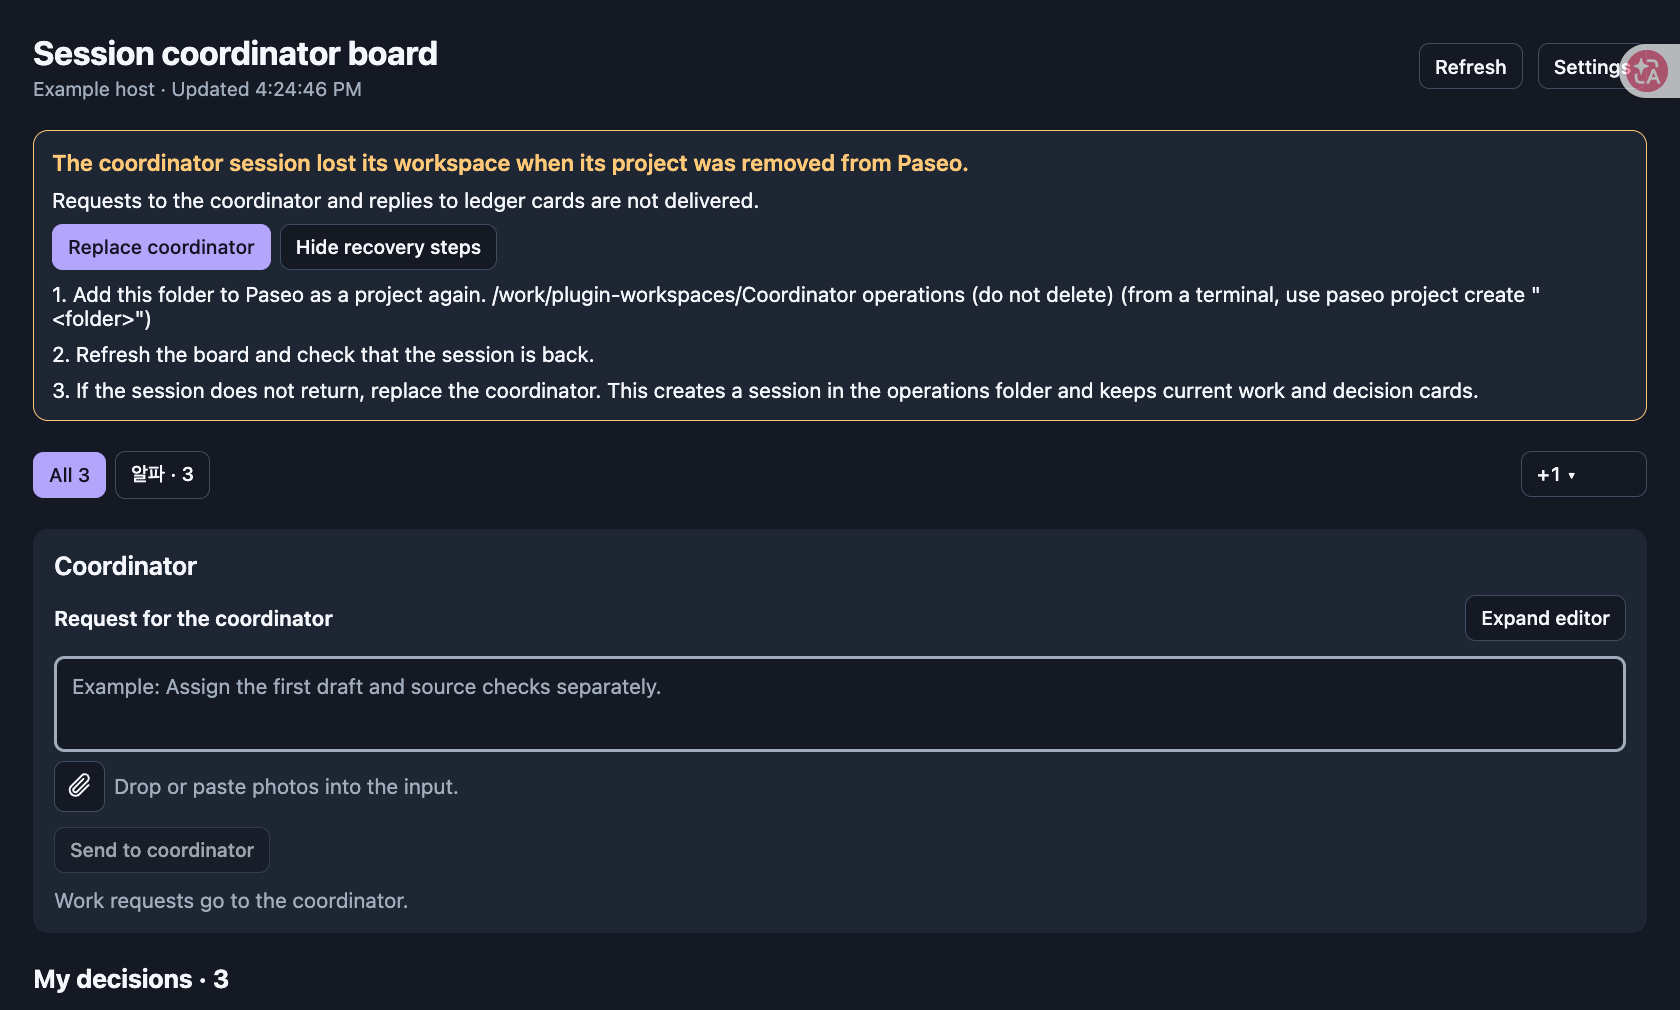
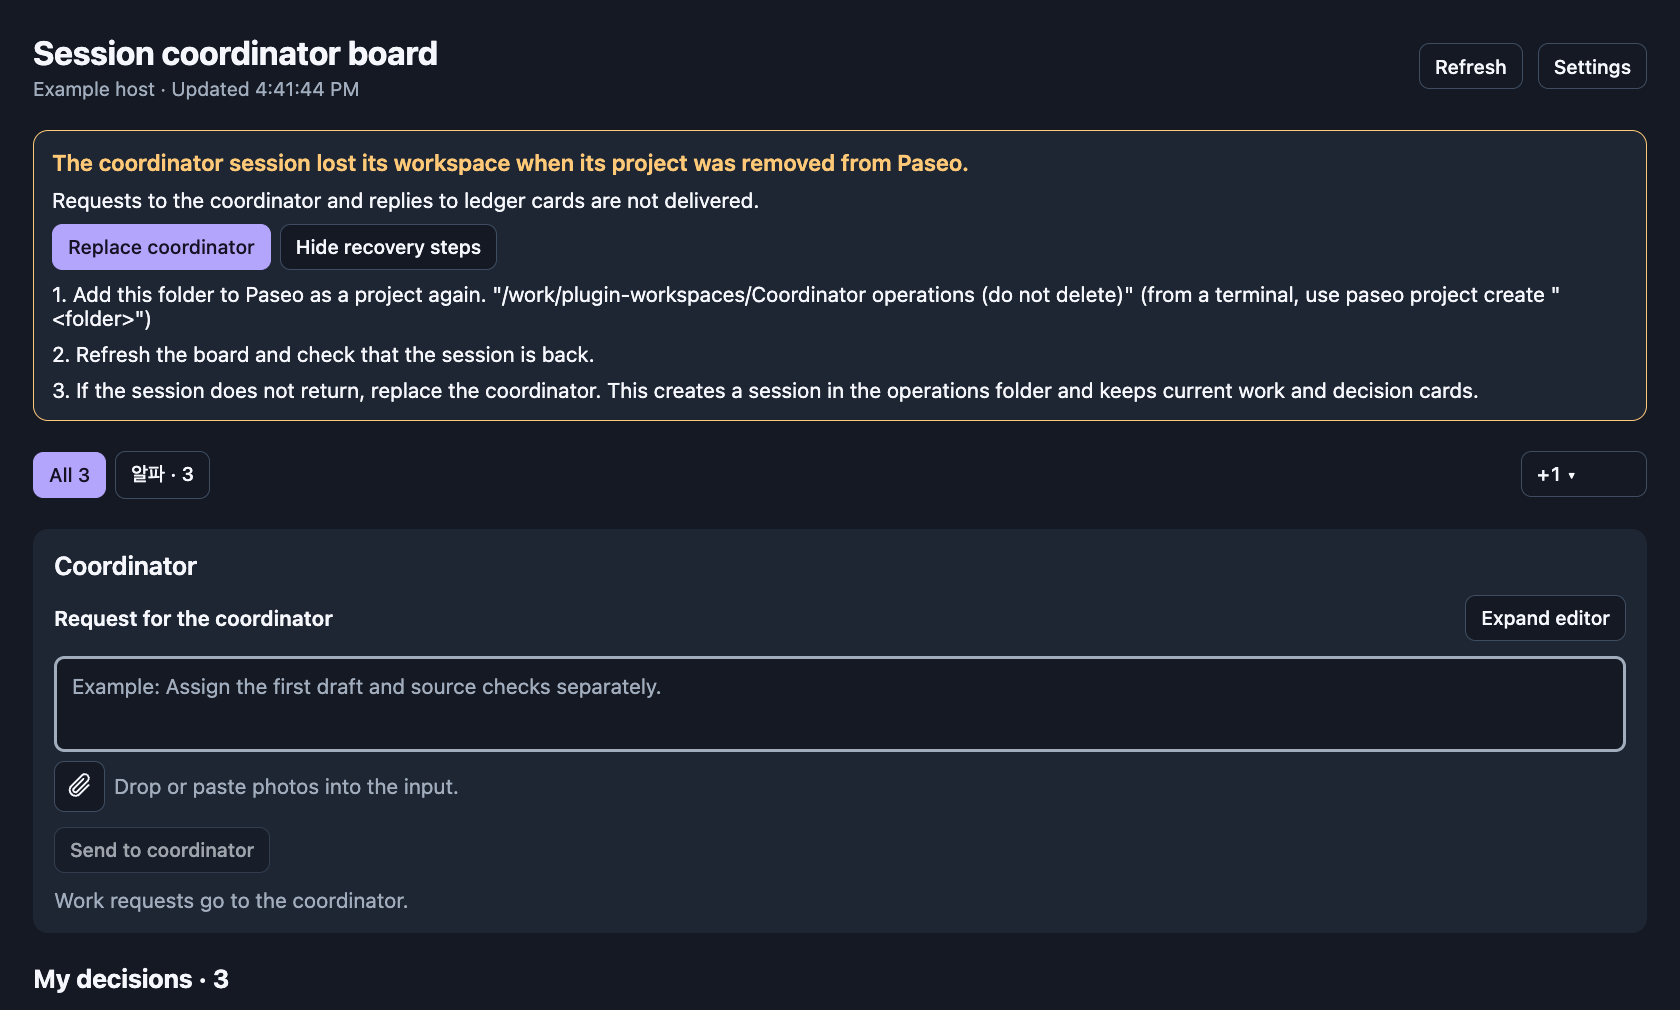
fix: 운영 폴더 재사용과 복구 안내 보완

Changed region(s): [[0.2786, 0.2762, 0.9286, 0.3069], [0.9595, 0.0307, 1.0, 0.1228], [0.1548, 0.0614, 0.2167, 0.0921]]

diff --git a/test/coordinator-unreachable.test.ts b/test/coordinator-unreachable.test.ts
@@ -140,7 +140,7 @@ test("an existing session chosen as coordinator is checked the same way, and no 
 test("the operating folder's project is marked so settings can warn before it is removed", async () => {
   const f = await fixture();
   const projects = (await f.snapshot()).projects;
-  expect(projects.find((p: any) => p.id === "operate")).toMatchObject({ operating: true, selected: false });
+  expect(projects.find((p: any) => p.id === "operate")).toMatchObject({ operating: true, operatingActive: true, selected: false });
   expect(projects.find((p: any) => p.id === "studio").operating).toBeUndefined();
   const picked = await fixture({ managed: false });
   // A work project that merely hosts a chosen coordinator session is not the operating folder.
@@ -155,14 +155,15 @@ test.each(["ko", "en"] as const)("the %s operations project is identified and re
   }));
   f.state.projects.push(...siblings);
   const view = await f.snapshot();
-  expect(view.projects.filter((p: any) => p.operating).map((p: any) => p.id)).toEqual(["operate", ...siblings.map(p => p.projectId)]);
+  expect(view.projects.filter((p: any) => p.operating).map((p: any) => [p.id, p.operatingActive]))
+    .toEqual([["operate", true], ...siblings.map(p => [p.projectId, false])]);
   f.state.projects = f.state.projects.filter(p => p.projectId !== "operate");
   f.state.agents.delete("coordinator");
 
   const { coordinatorReach } = await f.snapshot();
   expect(coordinatorReach).toEqual({ state: "project-missing", directory: f.operatingFolder });
   const notice = reachNotice(coordinatorReach, (ko, en) => language === "ko" ? ko : en);
-  expect(notice?.steps[0]).toContain(f.operatingFolder);
+  expect(notice?.steps[0]).toContain(`"${f.operatingFolder}"`);
   expect(notice?.steps[0]).toContain(language === "ko" ? 'paseo project create "<폴더>"' : 'paseo project create "<folder>"');
 });
 
@@ -180,6 +181,8 @@ test("the operating folder is recognised through another spelling of its path", 
   // Folders that no longer exist are compared by their resolved names.
   expect(await sameFolder(join(root, "gone"), join(root, "gone", "."))).toBe(true);
   expect(await sameFolder(join(root, "gone"), join(root, "Gone"))).toBe(process.platform === "win32");
+  const missing = join(root, "코디네이터 운영 (삭제 금지)");
+  expect(await sameFolder(missing, missing.normalize("NFD"), async () => new Map())).toBe(process.platform === "darwin");
   expect(await sameFolder("", folder)).toBe(false);
 });
 
@@ -198,6 +201,7 @@ test("operating project warnings reuse selected identities without probing unrel
     { id: "selected-alias", path: join(tmpdir(), "fixture-selected-alias"), rootKey: "1:8" },
     { id: "unrelated", path: join(tmpdir(), "fixture-offline-volume") },
   ];
-  expect(await operatingProjects(catalog, [operatingFolder], scopes, undefined, folderReader)).toEqual(new Set(["operating", "selected-alias"]));
+  expect(await operatingProjects(catalog, [operatingFolder], scopes, undefined, folderReader, [operatingFolder]))
+    .toEqual(new Map([["operating", true], ["selected-alias", true]]));
   expect(read).toEqual([operatingFolder]);
 });

diff --git a/server/coordinator-reach.ts b/server/coordinator-reach.ts
@@ -14,6 +14,7 @@ const defaultRoots = new ProjectRootReader();
 function matchFolders(left: string, right: string, leftKey?: string, rightKey?: string) {
   if (left === right) return true;
   if (leftKey && rightKey) return leftKey === rightKey;
+  if (process.platform === "darwin") return left.normalize("NFC") === right.normalize("NFC");
   return process.platform === "win32" && left.toLowerCase() === right.toLowerCase();
 }
 
@@ -49,16 +50,19 @@ export async function coordinatorReach(paseo: Sdk, scope: Scope, listed: Pick<Se
 
 // Removing this project in Paseo archives the workspace the board's coordinator lives in.
 export async function operatingProjects(projects: readonly { id: string; path: string; rootKey?: string }[], operatingFolders: readonly string[],
-  scope: Scope, listed: Pick<SessionRow, "id" | "projectId" | "sourceProjectId"> | undefined, roots: ProjectRootReader) {
+  scope: Scope, listed: Pick<SessionRow, "id" | "projectId" | "sourceProjectId"> | undefined, roots: ProjectRootReader,
+  inUseFolders: readonly string[]) {
   const folders = operatingFolders.map(folder => resolve(folder));
   const comparable = (path: string) => path.normalize("NFC").toLowerCase();
   const comparableFolders = new Set(folders.map(comparable));
-  const ids = new Set<string>();
-  if (listed && listed.id === scope.coordinator && scope.createdCoordinator?.id === listed.id) ids.add(listed.sourceProjectId ?? listed.projectId);
+  const inUse = new Set(inUseFolders.map(folder => resolve(folder)));
+  const listedProject = listed && listed.id === scope.coordinator ? listed.sourceProjectId ?? listed.projectId : undefined;
+  const ids = new Map<string, boolean>();
+  if (listedProject && scope.createdCoordinator?.id === listed?.id) ids.set(listedProject, true);
   const candidates = projects.flatMap(project => {
     if (!project.path) return [];
     const path = resolve(project.path);
-    if (folders.includes(path)) ids.add(project.id);
+    if (folders.includes(path) && !ids.has(project.id)) ids.set(project.id, project.id === listedProject || inUse.has(path));
     // Reuse selected roots. For unmanaged projects only comparable spellings need a disk lookup.
     if (ids.has(project.id) || (!project.rootKey && !comparableFolders.has(comparable(path)))) return [];
     return [{ ...project, path }];
@@ -67,7 +71,8 @@ export async function operatingProjects(projects: readonly { id: string; path: s
     const keys = await roots.folderKeys([...folders, ...candidates.filter(project => !project.rootKey).map(project => project.path)]);
     for (const project of candidates) {
       const key = project.rootKey ?? keys.get(project.path);
-      if (folders.some(folder => matchFolders(project.path, folder, key, keys.get(folder)))) ids.add(project.id);
+      const matching = folders.filter(folder => matchFolders(project.path, folder, key, keys.get(folder)));
+      if (matching.length) ids.set(project.id, project.id === listedProject || matching.some(folder => inUse.has(folder)));
     }
   }
   return ids;

diff --git a/client/board.tsx b/client/board.tsx
@@ -334,10 +334,16 @@ export function BoardView({ snapshot, readiness, theme, layout, hostLabel, hostI
             return <Button key={p.id} theme={theme} selected={p.selected} disabled={actions.changing}
               label={label} onPress={() => onProject(p.id, !p.selected)} />;
           })}
-          {snapshot.projects.filter(p => p.operating).map(p => <Text key={p.id} accessibilityLiveRegion="polite" style={{ color: c.statusWarning }}>
-            {t(`‘${p.title}’ 프로젝트는 코디네이터 운영 폴더입니다. Paseo에서 이 프로젝트를 제거하면 워크스페이스와 코디네이터 세션이 함께 보관되어, 코디네이터에게 보내는 요청과 답장이 전달되지 않습니다. Paseo 프로젝트 목록에 그대로 두세요.`,
-              `“${p.title}” is the coordinator's operating folder. Removing this project in Paseo archives its workspace and the coordinator session with it, so requests and replies stop reaching the coordinator. Keep it in your Paseo project list.`)}
-          </Text>)}
+          {snapshot.projects.filter(p => p.operating).map(p => {
+            const inactive = p.operatingActive === false;
+            return <Text key={p.id} accessibilityLiveRegion="polite" style={{ color: inactive ? c.foregroundMuted : c.statusWarning }}>
+              {inactive
+                ? t(`‘${p.title}’은 현재 쓰지 않는 운영 폴더입니다. 이 프로젝트를 제거해도 현재 코디네이터 연결에는 영향이 없습니다.`,
+                  `“${p.title}” is an unused operations folder. Removing it will not disconnect the current coordinator.`)
+                : t(`‘${p.title}’은 코디네이터 운영에 사용 중입니다. 제거하면 워크스페이스가 보관되어 요청과 답장이 전달되지 않습니다. Paseo 프로젝트 목록에 그대로 두세요.`,
+                  `“${p.title}” is in use for coordinator operations. Removing it archives the workspace and stops requests and replies. Keep it in your Paseo project list.`)}
+            </Text>;
+          })}
         </>}
       </View>}
       {settings && snapshot && configured && <SessionLinks projects={activeProjects} theme={theme} onChange={onRefresh} />}

diff --git a/test/lifecycle.test.ts b/test/lifecycle.test.ts
@@ -63,21 +63,33 @@ test.each([
   expect(f.prefs.read().createdCoordinator?.language).toBe(language);
 });
 
-test("replacing a legacy coordinator uses the new folder and respects disabled auto-pin", async () => {
+test.each([true, false])("replacing a legacy coordinator preserves auto-pin preference %s", async autoPin => {
   const f = setup();
   f.agents.set("old", { id: "old", workspaceId: "legacy-workspace", status: "idle" });
   f.prefs.change(scope => {
     scope.coordinator = "old";
     scope.createdCoordinator = { id: "old", workspaceId: "legacy-workspace", previous: null, config: start.config };
-    scope.autoPinCoordinatorWorkspace = false;
+    scope.autoPinCoordinatorWorkspace = autoPin;
   });
   expect(await f.lifecycle.ensure(f.sdk, { ...start, expectedCoordinator: "old", language: "en" })).toMatchObject({ sessionId: "old", reused: true });
   expect(f.opened).toEqual([]);
 
   await f.lifecycle.ensure(f.sdk, { ...start, expectedCoordinator: "old", replace: true, language: "en" });
   expect(f.opened).toEqual([join(f.directory, "Coordinator operations (do not delete)")]);
-  expect(f.pins.calls).toEqual([]);
+  expect(f.pins.calls).toEqual(autoPin ? [true] : []);
+  expect(f.prefs.read().autoPinCoordinatorWorkspace).toBe(autoPin);
   expect(f.agents.get("old")?.workspaceId).toBe("legacy-workspace");
+});
+
+test("a device language change does not create or pin a second operations workspace", async () => {
+  const f = setup();
+  const first = await f.lifecycle.ensure(f.sdk, { ...start, language: "en" });
+  const second = await f.lifecycle.ensure(f.sdk, { ...start, expectedCoordinator: first.sessionId, replace: true, language: "ko" });
+  const path = join(f.directory, "Coordinator operations (do not delete)");
+  expect(f.opened).toEqual([path, path]);
+  expect(second.workspaceId).toBe(first.workspaceId);
+  expect(f.prefs.read().createdCoordinator?.language).toBe("en");
+  expect(f.pins.calls).toEqual([true]);
 });
 
 test("신규 설치 두 창이 동시에 시작해도 운영 세션 한 개와 기존 발췌 판단을 유지한다", async () => {

diff --git a/client/operations.tsx b/client/operations.tsx
@@ -37,7 +37,7 @@ type Props = {
 };
 
 export function OperationsPanel({ theme, settings, coordinator, configured, refreshBoard, openCoordinator, action: { pending, busy, setBusy }, digest }: Props) {
-  const { t, language } = useBoardLanguage();
+  const { t, language, languageReady } = useBoardLanguage();
   const fetchState = useRpc(operationState),
     setup = useRpc(setupCoordinator),
     includeProvider = useRpc(setProviderInclusion),
@@ -166,7 +166,7 @@ export function OperationsPanel({ theme, settings, coordinator, configured, refr
   </>;
 
   function connect() {
-    if (!model || !mode || !configured) return;
+    if (!model || !mode || !configured || !languageReady) return;
     void act(
       () => setup({ expectedCoordinator: coordinator, replace: !!coordinator, expectedRoute: model, expectedModeId: mode.id, language }),
       t("운영 세션을 연결했습니다.", "Coordinator session connected."),
@@ -262,7 +262,7 @@ export function OperationsPanel({ theme, settings, coordinator, configured, refr
         model ? t(`연결된 모델로 운영 세션을 만듭니다 · ${routeName(model, t)}`, `Create a coordinator session with ${routeName(model, t)}`) :
         data ? explainEmptyRoute(data, "M", t) : t("설정에서 실행기와 모델을 새로 고쳐 주세요.", "Refresh providers and models in Settings.")}</Text>
       {!loading && model && <Text style={{ color: muted }}>{modeText}</Text>}
-      <View style={wrap}><Button theme={theme} label={data?.routing.M ? t("저장한 모델로 시작", "Start with saved model") : t("추천 설정으로 시작", "Start with recommended settings")} disabled={busy || loading || !model || !mode} onPress={connect} /></View>
+      <View style={wrap}><Button theme={theme} label={data?.routing.M ? t("저장한 모델로 시작", "Start with saved model") : t("추천 설정으로 시작", "Start with recommended settings")} disabled={busy || loading || !model || !mode || !languageReady} onPress={connect} /></View>
     </>}
     {feedback}
   </View>;

diff --git a/index.server.ts b/index.server.ts
@@ -30,7 +30,7 @@ import { BoardFacts } from "./server/board-facts";
 import { ProjectRootReader } from "./server/project-root";
 import { recordDigestCompletion } from "./server/digest";
 import { coordinatorReach, operatingProjects } from "./server/coordinator-reach";
-import { operatingDirectories } from "./server/operating-folders";
+import { operatingDirectories, operatingDirectory } from "./server/operating-folders";
 
 export default function contribute(server: PluginServerContext) {
   server.registerSettings(hostVisibility);
@@ -133,8 +133,11 @@ export default function contribute(server: PluginServerContext) {
     const listedCoordinator = coordinatorRow?.id === latest.coordinator ? coordinatorRow : undefined;
     const projects = [...choices.values()];
     const reach = await coordinatorReach(paseo, latest, listedCoordinator, operatingRoot, projects, projectRoots);
-    const operating = await operatingProjects(projects, operatingFolders, latest, listedCoordinator, projectRoots);
-    const knownProjects = projects.map(p => ({ ...p, selected: selected.has(p.id), ...(operating.has(p.id) ? { operating: true } : {}) }));
+    const inUseFolders = [latest.createdCoordinator?.id === latest.coordinator ? latest.createdCoordinator : undefined, latest.pendingCoordinator]
+      .flatMap(record => record ? [operatingDirectory(operatingRoot, record.language)] : []);
+    const operating = await operatingProjects(projects, operatingFolders, latest, listedCoordinator, projectRoots, inUseFolders);
+    const knownProjects = projects.map(p => ({ ...p, selected: selected.has(p.id),
+      ...(operating.has(p.id) ? { operating: true, operatingActive: operating.get(p.id) } : {}) }));
     const missingProjects = latest.projects.filter(id => !selected.has(id)).map(id => ({
       id, title: id, path: "", selected: true, missing: true as const, temporary: false,
     }));

diff --git a/client/coordinator-replace.tsx b/client/coordinator-replace.tsx
@@ -16,7 +16,7 @@ type Props = {
 
 // Replace the coordinator, optionally with a model picked right here: pick, choose a model, confirm.
 export function CoordinatorReplace({ theme, coordinator, data, loading, disabled = false, reload, onReplaced, onClose, extraAction, footer }: Props) {
-  const { t, language } = useBoardLanguage();
+  const { t, language, languageReady } = useBoardLanguage();
   const setup = useRpc(setupCoordinator);
   const [picking, setPicking] = useState(false);
   const [query, setQuery] = useState("");
@@ -35,13 +35,13 @@ export function CoordinatorReplace({ theme, coordinator, data, loading, disabled
   const choice = offeredPick(data, picked);
   const target = choice ?? usual;
   const mode = data && target ? replacementMode(data, target.provider) : null;
-  const blocked = disabled || busy || loading;
+  const blocked = disabled || busy || loading || !languageReady;
   const list = picking && data ? replacementChoices(data, query, t) : null;
   const rememberLabel = t("다음 교체에도 이 모델을 기본으로 사용", "Use this model as the default for later replacements");
 
   async function replace() {
     const plan = replacementSelection(choice, usual, remember);
-    if (!plan || !mode || pending.current) return;
+    if (!plan || !mode || blocked || pending.current) return;
     pending.current = true;
     setBusy(true); setError(""); setNotice("");
     try {

diff --git a/client/language.tsx b/client/language.tsx
@@ -19,7 +19,7 @@ const translators: Record<Language, Translate> = {
 function usePreference() {
   const state = useSettings(languageSetting);
   const language = state.status === "ready" ? state.values.language : "ko";
-  return { state, language, t: translators[language] };
+  return { state, language, t: translators[language], languageReady: state.status === "ready" && !state.saving };
 }
 const Context = createContext<ReturnType<typeof usePreference> | null>(null);
 
@@ -28,9 +28,9 @@ export function BoardLanguageProvider({ children }: { children: ReactNode }) {
   return <Context.Provider value={preference}>{children}</Context.Provider>;
 }
 
-export function useBoardLanguage(): { language: Language; t: Translate } {
+export function useBoardLanguage(): { language: Language; t: Translate; languageReady: boolean } {
   const pref = useContext(Context);
-  return pref ?? { language: "ko", t: translators.ko };
+  return pref ?? { language: "ko", t: translators.ko, languageReady: true };
 }
 
 export function BoardLanguageSetting({ theme }: { theme: Theme }) {

diff --git a/shared/contract.ts b/shared/contract.ts
@@ -61,7 +61,7 @@ export const boardSnapshot = defineRpc({
   input: z.object({ fresh: z.boolean().optional() }),
   output: z.object({ sessions: z.array(session), notes: z.record(z.string(), noteSchema),
     projects: z.array(z.object({ id: z.string(), title: z.string(), path: z.string(), selected: z.boolean(),
-      rootKey: z.string().optional(), temporary: z.boolean().optional(), operating: z.boolean().optional(), missing: z.literal(true).optional() })),
+      rootKey: z.string().optional(), temporary: z.boolean().optional(), operating: z.boolean().optional(), operatingActive: z.boolean().optional(), missing: z.literal(true).optional() })),
     coordinator: sessionId.nullable(), coordinatorReach: coordinatorReachSchema.optional(), lastDigestAt: z.iso.datetime().optional(), clarifications:z.array(clarificationEntry).optional(), replyHistory: z.array(replyEntry).optional(), trackedDecisions: trackedDecisionViewSchema.optional(), pullRequests: pullRequestViewSchema.optional() }),
 });
 export const boardDecisionCount = defineRpc({

diff --git a/client/coordinator-reach.ts b/client/coordinator-reach.ts
@@ -50,7 +50,7 @@ function steps(reach: CoordinatorReach, role: ReachRole, t: Translate) {
     case "project-missing":
     case "workspace-archived":
       list.push(reach.directory
-        ? t(`Paseo에서 이 폴더를 프로젝트로 다시 추가하세요. ${reach.directory} (명령줄에서는 paseo project create "<폴더>")`, `Add this folder to Paseo as a project again. ${reach.directory} (from a terminal, use paseo project create "<folder>")`)
+        ? t(`Paseo에서 이 폴더를 프로젝트로 다시 추가하세요. "${reach.directory}" (명령줄에서는 paseo project create "<폴더>")`, `Add this folder to Paseo as a project again. "${reach.directory}" (from a terminal, use paseo project create "<folder>")`)
         : t('Paseo에서 세션이 일하던 폴더를 프로젝트로 다시 추가하세요. (명령줄에서는 paseo project create "<폴더>")', 'Add the folder the session worked in to Paseo as a project again. (From a terminal, use paseo project create "<folder>")'),
         refresh);
       break;

diff --git a/server/lifecycle.ts b/server/lifecycle.ts
@@ -127,7 +127,9 @@ export class CoordinatorLifecycle {
     // Keep the candidate ID across disconnects and plugin restarts. A retry can
     // adopt the exact same daemon session even if its creation receipt was lost.
     const saved = scope.pendingCoordinator;
-    const pending: Pending = saved?.previous === current && sameConfig(saved.config, config) ? saved : { id: randomUUID(), previous: current, config, language };
+    // Once a named folder exists, use it across devices with different board languages.
+    const pending: Pending = saved?.previous === current && sameConfig(saved.config, config) ? saved
+      : { id: randomUUID(), previous: current, config, language: prepared?.language ?? language };
     this.prefs.change(s => {
       if (!s.projects.length || s.coordinator !== current || s.pendingCoordinator?.id !== saved?.id) throw new Error(stale);
       s.pendingCoordinator = pending;
